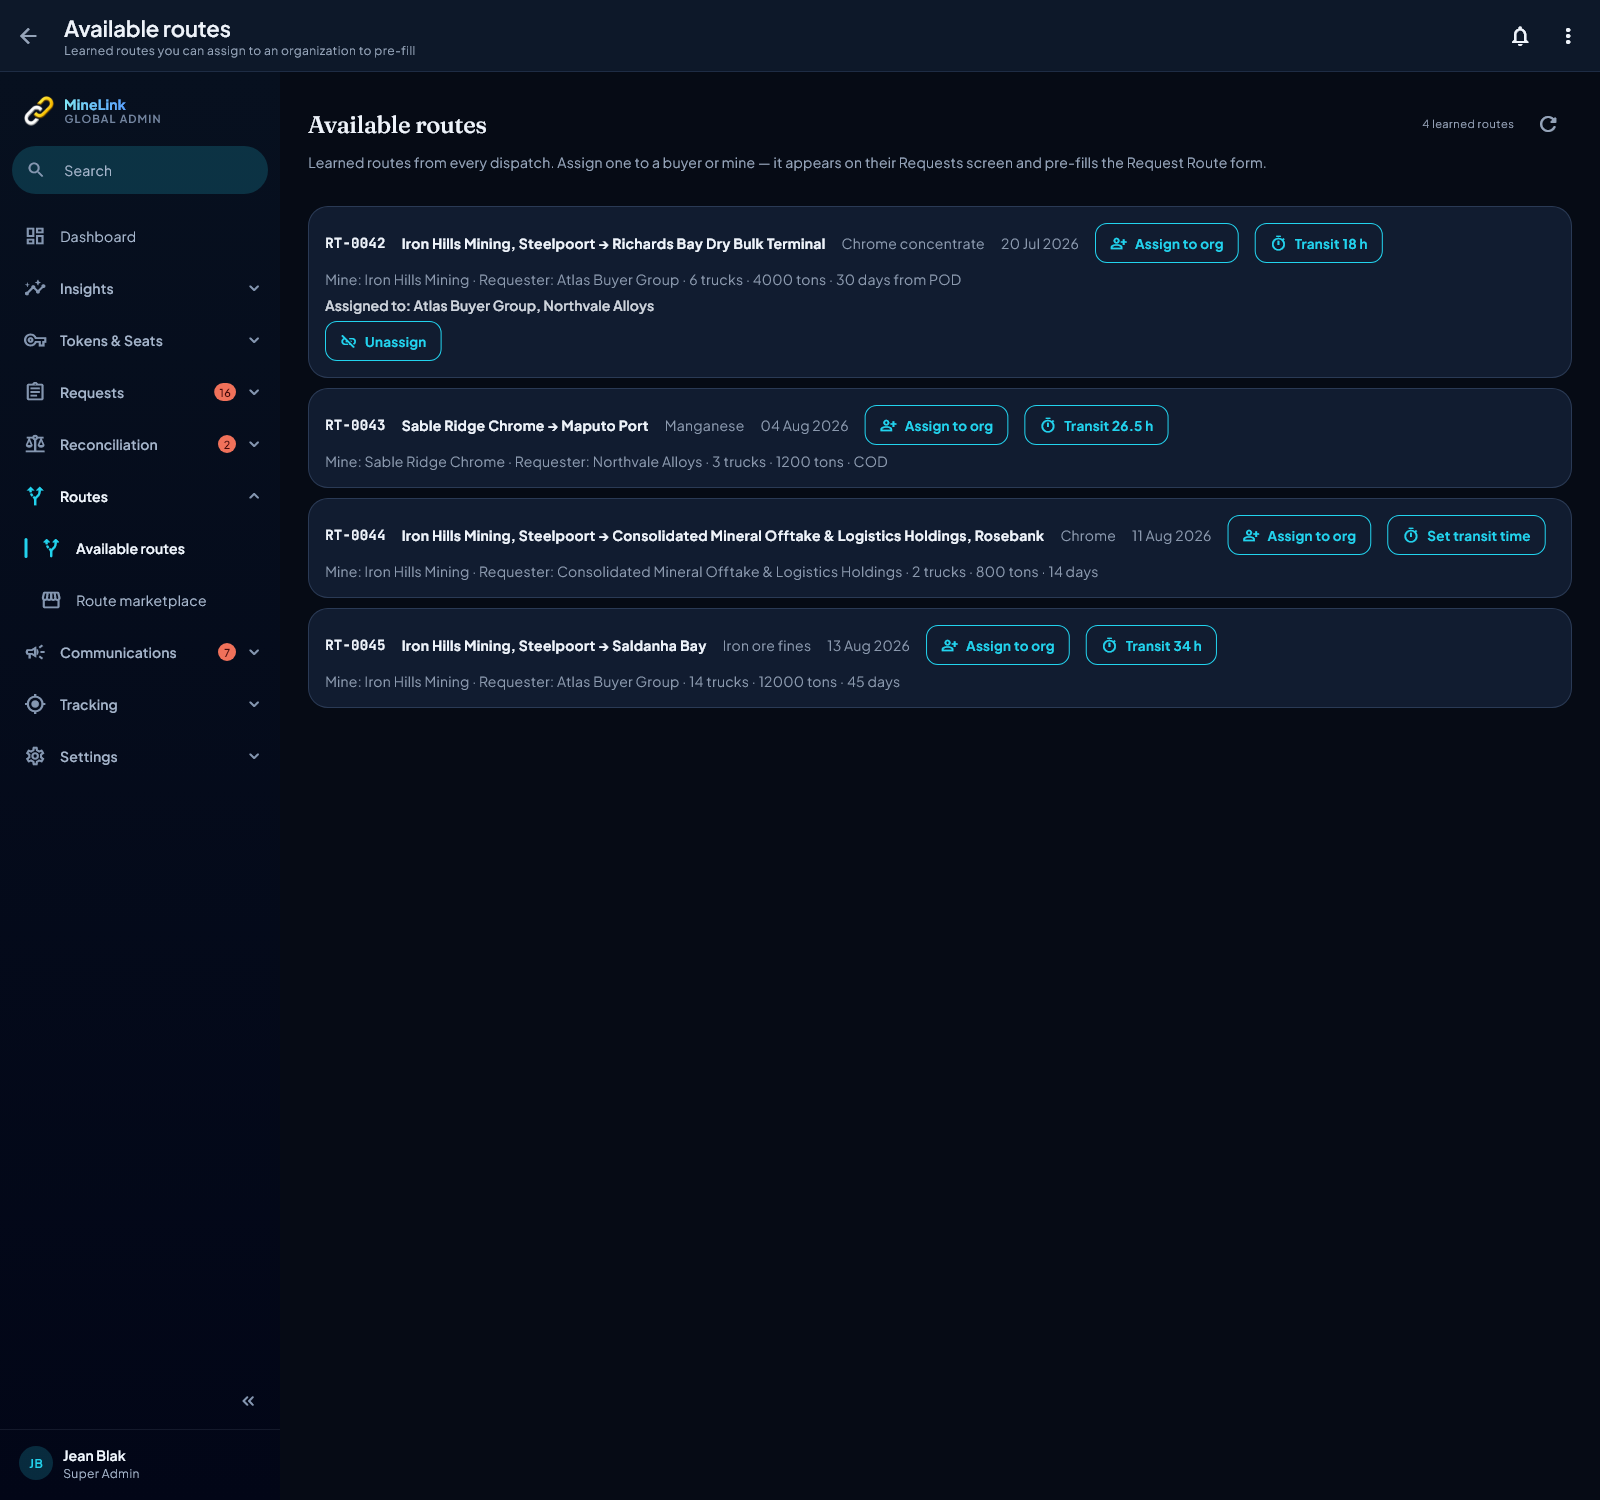
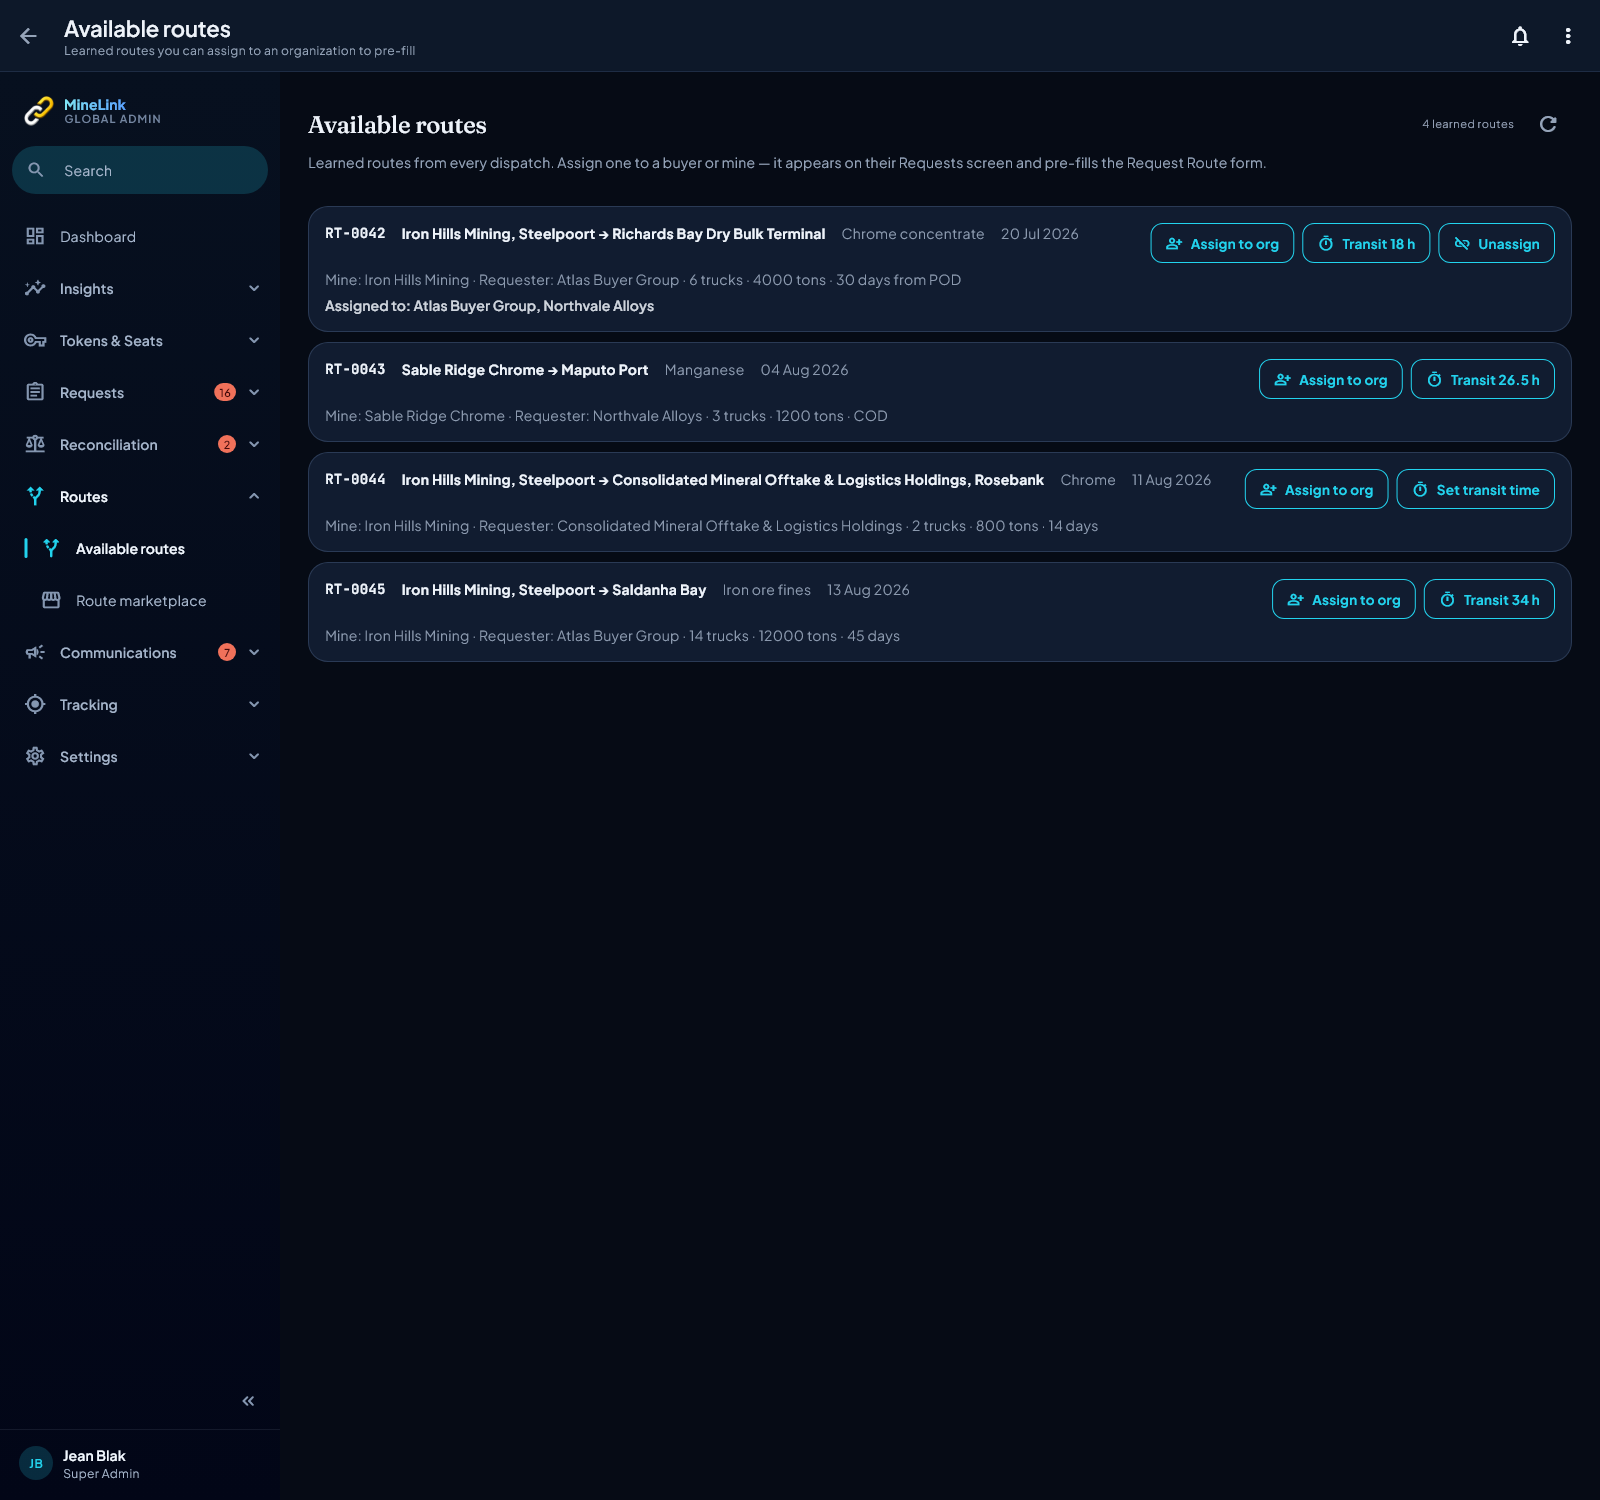
fix(console): an available route's actions sit on the right of its title, Unassign among them
The three actions rode inline after the title in one Wrap — "RT-0042 …
Richards Bay Dry Bulk Terminal · Chrome concentrate · 20 Jul 2026 [Assign]
[Transit]" — and Unassign sat alone at the card's bottom left. The
reference places a card's actions on the right (§4). Phase 3 pass,
2026-08-23. Title group Expanded on the left, actions right-aligned at
≥820px and under the title below that, as a Wrap so they never clip.

Pinned in console_tail_test.dart (the last action's right edge is the
card's content edge ±1.5; Unassign shares the action row; the title sits
on the same row at 1600px) — sabotaged by stashing the screen: fails. The
screen is added to the overflow sweep's with-rows pass (three widths × two
scales) with the tail fixtures, so the narrow layout is swept too. Renders
regenerated and looked at, desktop and phone.

Changed region(s): [[0.1875, 0.2147, 1.0, 0.4907], [0.2188, 0.1533, 0.9688, 0.184]]

diff --git a/lib/features/super_admin/screens/available_routes_screen.dart b/lib/features/super_admin/screens/available_routes_screen.dart
@@ -725,100 +725,130 @@ class _AvailableRoutesScreenState extends ConsumerState<AvailableRoutesScreen> {
                         borderRadius: BorderRadius.circular(MlTokens.rXl),
                         border: Border.all(color: semantic.borderCard),
                       ),
-                      child: Column(
-                        crossAxisAlignment: CrossAxisAlignment.start,
-                        children: [
-                          Wrap(
-                            spacing: 16,
-                            runSpacing: 8,
-                            crossAxisAlignment: WrapCrossAlignment.center,
-                            children: [
-                              Text(
-                                r.routeNumber,
-                                style: TextStyle(
-                                  fontFamily: MlTokens.fontMono,
-                                  fontWeight: FontWeight.w700,
-                                  color: semantic.textStrong,
-                                ),
+                      child: Builder(builder: (context) {
+                        // The reference places a card's actions on the right
+                        // (docs/design-reference.md §4: notice bar, data rows).
+                        // These rode inline after the title in one Wrap, and
+                        // Unassign sat alone at the bottom left. Found
+                        // 2026-08-23 in the Phase 3 pass. Title group left,
+                        // actions right; under 820px the actions drop under
+                        // the title — a Wrap, so they wrap rather than clip.
+                        final titleGroup = Wrap(
+                          spacing: 16,
+                          runSpacing: 8,
+                          crossAxisAlignment: WrapCrossAlignment.center,
+                          children: [
+                            Text(
+                              r.routeNumber,
+                              style: TextStyle(
+                                fontFamily: MlTokens.fontMono,
+                                fontWeight: FontWeight.w700,
+                                color: semantic.textStrong,
                               ),
-                              Text(
-                                r.routeLabel,
-                                style: TextStyle(
-                                  fontWeight: FontWeight.w700,
-                                  color: semantic.textStrong,
-                                ),
+                            ),
+                            Text(
+                              r.routeLabel,
+                              style: TextStyle(
+                                fontWeight: FontWeight.w700,
+                                color: semantic.textStrong,
                               ),
-                              if (r.commodity != null)
-                                Text(
-                                  r.commodity!,
-                                  style: context.mlText.bodyMedium.copyWith(
-                                    color: semantic.textFaint,
-                                  ),
-                                ),
+                            ),
+                            if (r.commodity != null)
                               Text(
-                                _dateFmt.format(MlTime.sast(r.createdAt)),
+                                r.commodity!,
                                 style: context.mlText.bodyMedium.copyWith(
                                   color: semantic.textFaint,
                                 ),
                               ),
-                              MlButton.outline(
-                                label: 'Assign to org',
-                                icon: Icons.person_add_alt_outlined,
-                                compact: true,
-                                onPressed: _busy ? null : () => _assign(r),
-                              ),
-                              MlButton.outline(
-                                label: r.expectedTransitHours == null
-                                    ? 'Set transit time'
-                                    : 'Transit ${r.transitLabel}',
-                                icon: Icons.timer_outlined,
-                                compact: true,
-                                onPressed: _busy
-                                    ? null
-                                    : () => _setTransitExpectation(r),
-                              ),
-                            ],
-                          ),
-                          const SizedBox(height: 6),
-                          Text(
-                            [
-                              if (r.supplierName != null)
-                                'Mine: ${r.supplierName}',
-                              if (r.buyerName != null)
-                                'Requester: ${r.buyerName}',
-                              if (r.numTrucks != null) mlCountText(r.numTrucks, 'truck'),
-                              if (r.tons != null) mlCountText(r.tons, 'ton'),
-                              if (r.paymentTerms != null) r.paymentTerms!,
-                            ].join(' · '),
-                            style: context.mlText.bodyMedium.copyWith(
-                              color: semantic.textFaint,
-                            ),
-                          ),
-                          if (r.assignedCompanies != null) ...[
-                            const SizedBox(height: 6),
                             Text(
-                              'Assigned to: ${r.assignedCompanies}',
-                              style: context.mlText.titleSmall.copyWith(
-                                color: semantic.textBody,
-                              ),
-                            ),
-                            const SizedBox(height: 6),
-                            // Only offered where there IS an assignment to
-                            // remove — the RPC existed with no call site, so
-                            // an admin who assigned to the wrong org had no
-                            // way back.
-                            Align(
-                              alignment: Alignment.centerLeft,
-                              child: MlButton.outline(
-                                label: 'Unassign',
-                                icon: Icons.link_off_outlined,
-                                compact: true,
-                                onPressed: _busy ? null : () => _unassign(r),
+                              _dateFmt.format(MlTime.sast(r.createdAt)),
+                              style: context.mlText.bodyMedium.copyWith(
+                                color: semantic.textFaint,
                               ),
                             ),
                           ],
-                        ],
-                      ),
+                        );
+                        final actions = <Widget>[
+                          MlButton.outline(
+                            label: 'Assign to org',
+                            icon: Icons.person_add_alt_outlined,
+                            compact: true,
+                            onPressed: _busy ? null : () => _assign(r),
+                          ),
+                          MlButton.outline(
+                            label: r.expectedTransitHours == null
+                                ? 'Set transit time'
+                                : 'Transit ${r.transitLabel}',
+                            icon: Icons.timer_outlined,
+                            compact: true,
+                            onPressed:
+                                _busy ? null : () => _setTransitExpectation(r),
+                          ),
+                          // Only offered where there IS an assignment to
+                          // remove — the RPC existed with no call site, so an
+                          // admin who assigned to the wrong org had no way
+                          // back.
+                          if (r.assignedCompanies != null)
+                            MlButton.outline(
+                              label: 'Unassign',
+                              icon: Icons.link_off_outlined,
+                              compact: true,
+                              onPressed: _busy ? null : () => _unassign(r),
+                            ),
+                        ];
+                        final wide = MediaQuery.sizeOf(context).width >= 820;
+                        final actionRow = Wrap(
+                          alignment:
+                              wide ? WrapAlignment.end : WrapAlignment.start,
+                          spacing: 8,
+                          runSpacing: 8,
+                          children: actions,
+                        );
+                        return Column(
+                          crossAxisAlignment: CrossAxisAlignment.start,
+                          children: [
+                            if (wide)
+                              Row(
+                                crossAxisAlignment: CrossAxisAlignment.start,
+                                children: [
+                                  Expanded(child: titleGroup),
+                                  const SizedBox(width: 12),
+                                  actionRow,
+                                ],
+                              )
+                            else ...[
+                              titleGroup,
+                              const SizedBox(height: 10),
+                              SizedBox(width: double.infinity, child: actionRow),
+                            ],
+                            const SizedBox(height: 6),
+                            Text(
+                              [
+                                if (r.supplierName != null)
+                                  'Mine: ${r.supplierName}',
+                                if (r.buyerName != null)
+                                  'Requester: ${r.buyerName}',
+                                if (r.numTrucks != null)
+                                  mlCountText(r.numTrucks, 'truck'),
+                                if (r.tons != null) mlCountText(r.tons, 'ton'),
+                                if (r.paymentTerms != null) r.paymentTerms!,
+                              ].join(' · '),
+                              style: context.mlText.bodyMedium.copyWith(
+                                color: semantic.textFaint,
+                              ),
+                            ),
+                            if (r.assignedCompanies != null) ...[
+                              const SizedBox(height: 6),
+                              Text(
+                                'Assigned to: ${r.assignedCompanies}',
+                                style: context.mlText.titleSmall.copyWith(
+                                  color: semantic.textBody,
+                                ),
+                              ),
+                            ],
+                          ],
+                        );
+                      }),
                     ),
                     const SizedBox(height: 10),
                   ],

diff --git a/test/features/super_admin/console_tail_test.dart b/test/features/super_admin/console_tail_test.dart
@@ -30,6 +30,7 @@ import 'package:flutter_application_1/core/theme/app_theme.dart';
 import 'package:flutter_application_1/core/time/ml_time.dart';
 import 'package:flutter_application_1/features/super_admin/screens/account_deactivations_screen.dart';
 import 'package:flutter_application_1/features/super_admin/screens/audit_logs_screen.dart';
+import 'package:flutter_application_1/features/super_admin/screens/available_routes_screen.dart';
 import 'package:flutter_application_1/features/super_admin/screens/organization_detail_screen.dart';
 import 'package:flutter_application_1/features/super_admin/screens/platform_users_screen.dart';
 import 'package:flutter_application_1/features/super_admin/screens/token_history_screen.dart';
@@ -254,6 +255,30 @@ void main() {
     // The last control sits inside the card's 14px padding, flush right.
     expect(reject.right, closeTo(cardRect.right - 14, 1.5),
         reason: 'the action row is not right-aligned inside its card');
+  });
+
+  testWidgets('an available route puts its actions on the right of the title',
+      (tester) async {
+    // The actions rode inline after the title in one Wrap and Unassign sat
+    // alone at the bottom left; the reference places a card's actions on
+    // the right. Phase 3 pass, 2026-08-23. Geometry: the last action's
+    // right edge is the card's content edge, and the title is not beside
+    // it on the narrow layout.
+    await pump(tester, const AvailableRoutesScreen(), width: 1600, height: 1600);
+    final card = find
+        .ancestor(of: find.text('RT-0042'), matching: find.byType(Container))
+        .first;
+    final cardRect = tester.getRect(card);
+    final transit = tester.getRect(find.widgetWithText(MlButton, 'Transit 18 h'));
+    // Unassign is the last control on an assigned route — in the action
+    // row, not stranded below the card text.
+    final unassign = tester.getRect(find.widgetWithText(MlButton, 'Unassign'));
+    expect(unassign.right, closeTo(cardRect.right - 16, 1.5),
+        reason: 'the actions are not right-aligned inside the card');
+    expect(unassign.top, closeTo(transit.top, 1));
+    final title = tester.getRect(find.text('RT-0042'));
+    expect(title.top, closeTo(transit.top, 14),
+        reason: 'at 1600px the title and the actions share the top row');
   });
 
   testWidgets('platform users name the role in English', (tester) async {

diff --git a/test/widgets/super_admin_overflow_sweep_test.dart b/test/widgets/super_admin_overflow_sweep_test.dart
@@ -65,6 +65,7 @@ import 'package:flutter_application_1/features/super_admin/widgets/transporters_
 import 'package:flutter_application_1/core/layout/text_scale.dart';
 import 'package:flutter_application_1/core/theme/app_theme.dart';
 import '../fixtures/console_capture_fixtures.dart';
+import '../fixtures/console_tail_fixtures.dart';
 import '../fixtures/ml_sample_data.dart';
 import '../fixtures/portal_capture_fixtures.dart';
 import '../fixtures/screen_fixtures.dart';
@@ -397,6 +398,9 @@ void main() {
       'margin ledger',
       'dispute inbox',
       'request tracking',
+      // Its cards now put the actions on the right of the title at width
+      // and under it below 820px — both halves need the rows to exist.
+      'available routes',
     ];
     for (final key in withData) {
       testWidgets('$key survives every width x text scale, WITH ROWS',
@@ -409,6 +413,7 @@ void main() {
             ...companyScopeOverrides(),
             ...consoleCaptureOverrides(),
             ...portalCaptureOverrides(),
+            ...consoleTailOverrides(),
           ],
           scales: const [1.0, 1.3],
         );
